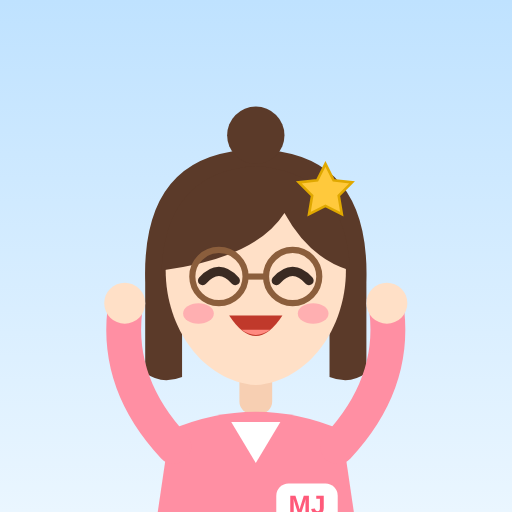
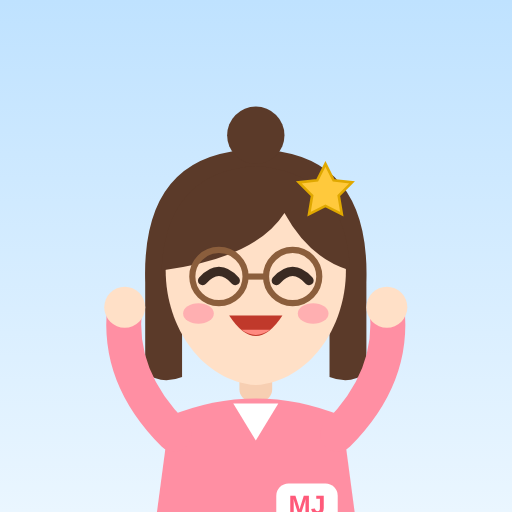
MJ선생님 목 길이 줄임
Claude-Session: https://claude.ai/code/session_01HtEVcaKpFcXTMcnbUXu1Jp

diff --git a/index.html b/index.html
@@ -154,7 +154,7 @@ body{-webkit-tap-highlight-color:transparent;touch-action:manipulation;overscrol
 <script>
 {
 /* ---------- 저장 ---------- */
-const APP_VER='2026.11.17-8';
+const APP_VER='2026.11.17-9';
 const KEY='mjEnglishReview.v1';
 const DEF={settings:{name:'예준',pin:'1234',pass:70,rate:0.85,voice:''},words:{},sessions:[],custom:[],hidden:[],over:{},resume:{}};
 let S;
@@ -194,14 +194,14 @@ function mj(mood='happy',w=150){
     cheer:'<path d="M87 114q13 20 26 0z" fill="#c0392b"/><path d="M93 121q7 5 14 0" fill="#ff8a80"/>',
     hug:'<path d="M91 117q9 8 18 0" stroke="#c0392b" stroke-width="4" fill="none" stroke-linecap="round"/>'}[mood];
   const up=mood==='cheer'||mood==='wow';
-  const arms=up?'<path d="M60 178q-28-30-24-66" stroke="#FF8FA3" stroke-width="17" fill="none" stroke-linecap="round"/><circle cx="36" cy="108" r="10" fill="#FFE0C7"/><path d="M140 178q28-30 24-66" stroke="#FF8FA3" stroke-width="17" fill="none" stroke-linecap="round"/><circle cx="164" cy="108" r="10" fill="#FFE0C7"/>'
-   :'<path d="M62 178q-16 22-10 46" stroke="#FF8FA3" stroke-width="17" fill="none" stroke-linecap="round"/><circle cx="53" cy="227" r="9.5" fill="#FFE0C7"/><path d="M138 178q22 12 30 32" stroke="#FF8FA3" stroke-width="17" fill="none" stroke-linecap="round"/><rect x="158" y="200" width="30" height="24" rx="4" fill="#3D8BFF" transform="rotate(-12 173 212)"/><text x="173" y="217" font-size="13" fill="#fff" text-anchor="middle" font-family="Andika,Arial" transform="rotate(-12 173 212)">ABC</text>';
+  const arms=up?'<path d="M60 172q-28-28-24-62" stroke="#FF8FA3" stroke-width="17" fill="none" stroke-linecap="round"/><circle cx="36" cy="110" r="10" fill="#FFE0C7"/><path d="M140 172q28-28 24-62" stroke="#FF8FA3" stroke-width="17" fill="none" stroke-linecap="round"/><circle cx="164" cy="110" r="10" fill="#FFE0C7"/>'
+   :'<path d="M62 172q-16 24-10 50" stroke="#FF8FA3" stroke-width="17" fill="none" stroke-linecap="round"/><circle cx="53" cy="227" r="9.5" fill="#FFE0C7"/><path d="M138 172q22 14 30 36" stroke="#FF8FA3" stroke-width="17" fill="none" stroke-linecap="round"/><rect x="158" y="200" width="30" height="24" rx="4" fill="#3D8BFF" transform="rotate(-12 173 212)"/><text x="173" y="217" font-size="13" fill="#fff" text-anchor="middle" font-family="Andika,Arial" transform="rotate(-12 173 212)">ABC</text>';
   return `<svg width="${w}" height="${w*1.2}" viewBox="0 0 200 240" role="img" aria-label="MJ선생님">
   <ellipse cx="100" cy="236" rx="56" ry="5" fill="rgba(30,80,140,.15)"/>
   <path d="M46 98Q44 34 100 33Q156 34 154 98V142Q146 148 136 144V100H64V144Q54 148 46 142Z" fill="#5B3A29"/>
-  <rect x="92" y="140" width="16" height="22" rx="6" fill="#F7CFB2"/>
-  <path d="M58 170q42-18 84 0l10 68H48z" fill="#FF8FA3"/>
-  <path d="M88 166l12 20 12-20z" fill="#fff"/>
+  <rect x="92" y="140" width="16" height="16" rx="6" fill="#F7CFB2"/>
+  <path d="M58 163q42-17 84 0l10 75H48z" fill="#FF8FA3"/>
+  <path d="M89 157l11 18 11-18z" fill="#fff"/>
   <rect x="110" y="196" width="30" height="20" rx="6" fill="#fff"/><text x="125" y="211" font-size="13" text-anchor="middle" fill="#FF5A7A" font-family="Andika,Arial" font-weight="700">MJ</text>
   ${arms}
   <path d="M100 44C128 44 144 64 144 92C144 120 126 146 100 148C74 146 56 120 56 92C56 64 72 44 100 44Z" fill="#FFE0C7"/>

diff --git a/sw.js b/sw.js
@@ -1,6 +1,6 @@
 /* MJ선생님 영어 복습 — 오프라인 저장 (service worker)
    새 단원을 올릴 때 VERSION 숫자만 올리면 탭에서 새 그림까지 받아 둡니다. */
-const VERSION='mj-v8';
+const VERSION='mj-v9';
 const PRECACHE=["./", "index.html", "mjdata/units.js", "manifest.webmanifest", "icon-192.png", "icon-512.png", "mjdata/img/almost-spring/cover.jpg", "mjdata/img/almost-spring/p2.jpg", "mjdata/img/almost-spring/p3.jpg", "mjdata/img/almost-spring/p4.jpg", "mjdata/img/almost-spring/p5.jpg", "mjdata/img/almost-spring/p6.jpg", "mjdata/img/almost-spring/p7.jpg", "mjdata/img/almost-spring/p8.jpg", "mjdata/img/birthday-surprise/cover.jpg", "mjdata/img/birthday-surprise/p2.jpg", "mjdata/img/birthday-surprise/p3.jpg", "mjdata/img/birthday-surprise/p4.jpg", "mjdata/img/birthday-surprise/p5.jpg", "mjdata/img/birthday-surprise/p6.jpg", "mjdata/img/birthday-surprise/p7.jpg", "mjdata/img/birthday-surprise/p8.jpg", "mjdata/img/bubbles/cover.jpg", "mjdata/img/bubbles/p2.jpg", "mjdata/img/bubbles/p3.jpg", "mjdata/img/bubbles/p4.jpg", "mjdata/img/bubbles/p5.jpg", "mjdata/img/bubbles/p6.jpg", "mjdata/img/bubbles/p7.jpg", "mjdata/img/bubbles/p8.jpg"];
 self.addEventListener('install',e=>{e.waitUntil(caches.open(VERSION).then(c=>c.addAll(PRECACHE.map(u=>new Request(u,{cache:'reload'})))).then(()=>self.skipWaiting()))});
 self.addEventListener('activate',e=>{e.waitUntil(caches.keys().then(ks=>Promise.all(ks.filter(k=>k!==VERSION).map(k=>caches.delete(k)))).then(()=>self.clients.claim()))});
